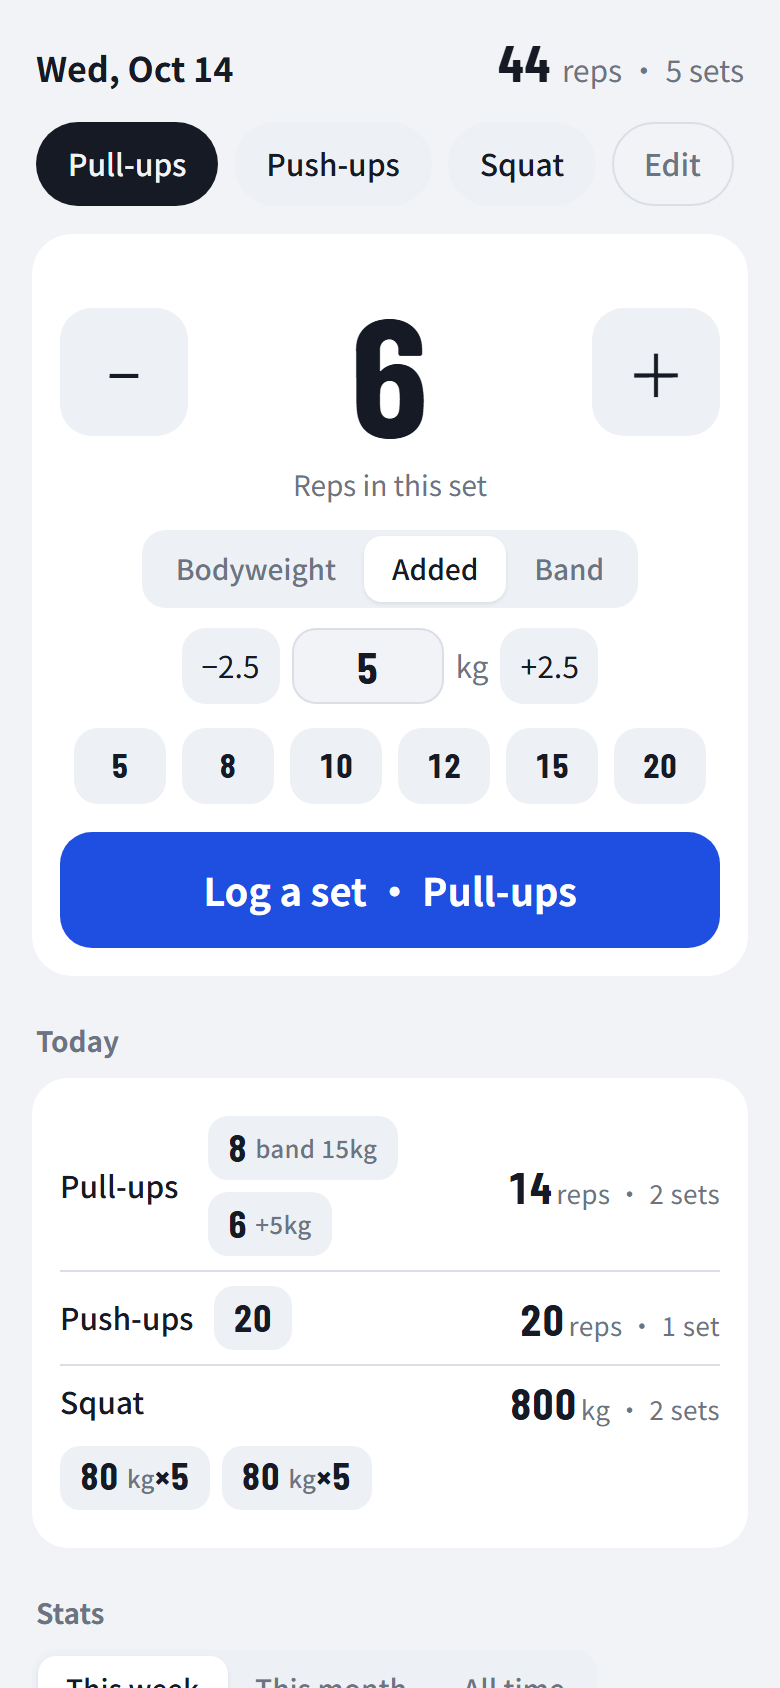
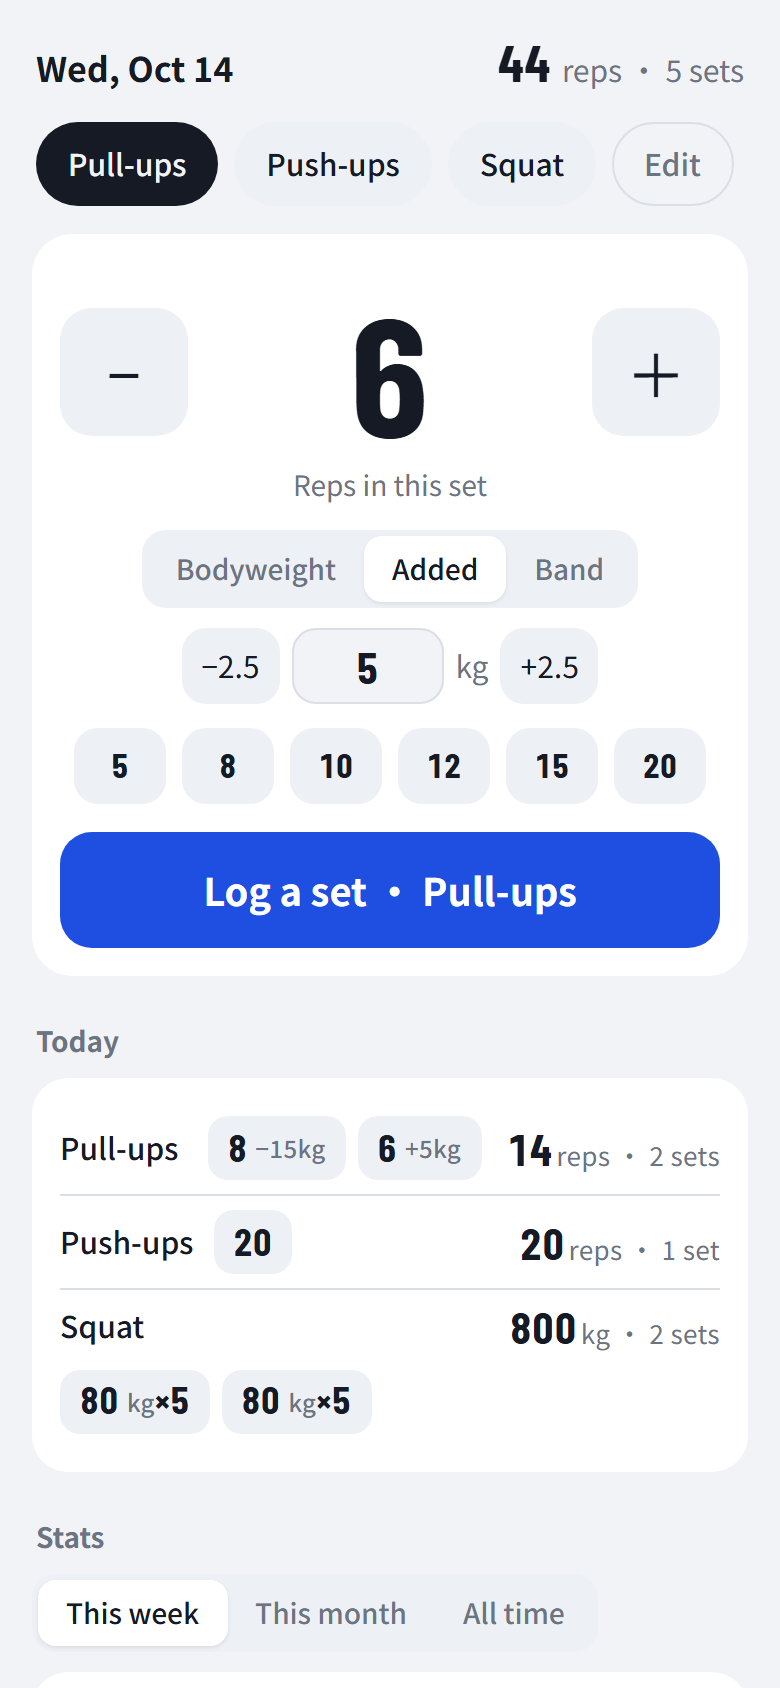
Show band assistance as -15kg on English set chips
The longer "band 15kg" squeezed the set chips onto two lines. Toasts and
screen-reader labels keep the full wording; Chinese is unchanged. The README
screenshots are now made by tools/make-screenshots.js.

diff --git a/tools/make-screenshots.js b/tools/make-screenshots.js
@@ -1,0 +1,47 @@
+// Takes the README screenshots with made-up data, in Chinese and English:
+//   node tools/make-screenshots.js   -> docs/screenshot.png, docs/screenshot-en.png
+const { chromium } = require('@playwright/test');
+const path = require('path');
+const { pathToFileURL } = require('url');
+
+const URL = pathToFileURL(path.join(__dirname, '..', 'index.html')).href;
+const SHOTS = [
+  // [file, locale, pull-ups, push-ups, a weight-type lift]
+  ['screenshot.png', 'zh-TW', '單槓', '伏地挺身', '深蹲'],
+  ['screenshot-en.png', 'en-US', 'Pull-ups', 'Push-ups', 'Squat'],
+];
+
+(async () => {
+  const browser = await chromium.launch();
+  for (const [file, locale, pull, push, lift] of SHOTS) {
+    const page = await browser.newPage({ viewport: { width: 390, height: 844 }, deviceScaleFactor: 2, colorScheme: 'light', locale });
+    await page.goto(URL);
+    await page.evaluate(([pull, push, lift]) => {
+      localStorage.clear();
+      localStorage.setItem('workoutlog.v1', JSON.stringify({ version: 3, exercises: [pull, push, lift], types: { [lift]: 'weight' }, days: {} }));
+    }, [pull, push, lift]);
+    await page.reload();
+    const log = async (ex, reps, mode, kg) => {
+      await page.click(`#chips .chip:has-text("${ex}")`);
+      if (mode) await page.click(`#load button[data-m="${mode}"]`);
+      if (kg !== undefined) await page.fill('#kg', String(kg));
+      await page.fill('#reps', String(reps));
+      await page.click('#log');
+    };
+    await log(pull, 8, 'band', 15);
+    await log(pull, 6, 'add', 5);
+    await log(push, 20, 'body');
+    await log(lift, 5, null, 80);
+    await log(lift, 5, null, 80);
+    await page.click(`#chips .chip:has-text("${pull}")`);
+    await page.click('#load button[data-m="add"]');
+    await page.fill('#kg', '5');
+    await page.fill('#reps', '6');
+    await page.evaluate(() => document.activeElement.blur());
+    await page.waitForTimeout(2000); // let the toast fade
+    await page.screenshot({ path: path.join(__dirname, '..', 'docs', file) });
+    await page.close();
+  }
+  await browser.close();
+  console.log('wrote docs/screenshot.png, docs/screenshot-en.png');
+})();

diff --git a/i18n.js b/i18n.js
@@ -32,7 +32,7 @@
       repsU: n => '下', setsU: n => ' 組',
       rowKg: n => 'kg · ' + n + ' 組', rowReps: n => '下 · ' + n + ' 組',
       dayHead: (r, s) => '<span class="num">' + r + '</span> 下 · ' + s + ' 組',
-      bandKg: kg => '帶' + kg + 'kg',
+      bandKg: kg => '帶' + kg + 'kg', bandShort: kg => '帶' + kg + 'kg',
       setAriaKg: (w, r) => w + ' 公斤 ' + r + ' 下，點一下可修改',
       setAria: (r, l) => r + ' 下' + (l ? ' ' + l : '') + '，點一下可修改',
       // stats
@@ -85,7 +85,8 @@
       repsU: n => plural(n, ' rep', ' reps'), setsU: n => plural(n, ' set', ' sets'),
       rowKg: n => 'kg · ' + n + plural(n, ' set', ' sets'), rowReps: n => 'reps · ' + n + plural(n, ' set', ' sets'),
       dayHead: (r, s) => '<span class="num">' + r + '</span>' + plural(r, ' rep', ' reps') + ' · ' + s + plural(s, ' set', ' sets'),
-      bandKg: kg => 'band ' + kg + 'kg',
+      // On the set chips space is tight: assistance shows as negative weight, the usual English convention.
+      bandKg: kg => 'band ' + kg + 'kg', bandShort: kg => '−' + kg + 'kg',
       setAriaKg: (w, r) => w + ' kg × ' + r + plural(r, ' rep', ' reps') + ', tap to edit',
       setAria: (r, l) => r + plural(r, ' rep', ' reps') + (l ? ' ' + l : '') + ', tap to edit',
       noStats: 'No sets in this period yet.', volKg: 'kg volume', totalReps: 'reps',

diff --git a/app.js b/app.js
@@ -34,7 +34,7 @@
   function currentReps(){ return clampReps($('reps').value); }
   // Load is signed kg on the set: w > 0 加重, w < 0 拉力帶, no w = 徒手.
   function cleanW(v){ const n = Math.round(Number(v) * 10) / 10; return Number.isFinite(n) ? Math.max(-999, Math.min(999, n)) : 0; }
-  function loadLabel(w){ return w > 0 ? '+' + w + 'kg' : w < 0 ? t('bandKg', -w) : ''; }
+  function loadLabel(w, short){ return w > 0 ? '+' + w + 'kg' : w < 0 ? t(short ? 'bandShort' : 'bandKg', -w) : ''; }
   function makeSet(id, ex, reps, w, t){ const s = { id, ex, reps, t }; if (w) s.w = w; return s; }
   function isWeight(ex){ return Object.prototype.hasOwnProperty.call(state.types, ex) && state.types[ex] === 'weight'; }
   // Training volume counts only weight-type lifts: kg × reps.
@@ -131,7 +131,7 @@
           el.setAttribute('aria-label', t('setAriaKg', s.w, s.reps));
         } else {
           el.textContent = s.reps;
-          if (s.w) { const sm = document.createElement('small'); sm.textContent = loadLabel(s.w); el.appendChild(sm); }
+          if (s.w) { const sm = document.createElement('small'); sm.textContent = loadLabel(s.w, true); el.appendChild(sm); }
           el.setAttribute('aria-label', t('setAria', s.reps, loadLabel(s.w)));
         }
         el.onclick = () => openEdit(key, s.id);

diff --git a/tests/i18n.spec.js b/tests/i18n.spec.js
@@ -52,6 +52,16 @@ test('記一組後，單位和提示是英文，單複數正確', async ({ page 
   await expect(page.locator('header .sum')).toHaveText('16 reps · 2 sets');
 });
 
+test('拉力帶在組數方塊上寫成短的 −15kg，提示裡寫完整的 band', async ({ page }) => {
+  await openApp(page);
+  await page.locator('#load button[data-m="band"]').click();
+  await page.locator('#kg').fill('15');
+  await page.locator('#log').click();
+  await expect(page.locator('#toast')).toHaveText('Pull-ups 8 reps (band 15kg) — logged');
+  await expect(page.locator('#todayDay .set')).toHaveText('8−15kg');
+  await expect(page.locator('#todayDay .set')).toHaveAttribute('aria-label', '8 reps band 15kg, tap to edit');
+});
+
 test('已經存在的動作名稱不會被翻譯', async ({ page }) => {
   await openApp(page, { version: 3, exercises: ['單槓'], days: {} });
   await expect(page.locator('#chips .chip').first()).toHaveText('單槓');

diff --git a/index.html b/index.html
@@ -15,7 +15,7 @@
 <meta name="apple-mobile-web-app-title" content="運動紀錄">
 <link rel="preconnect" href="https://fonts.googleapis.com">
 <link href="https://fonts.googleapis.com/css2?family=Barlow+Condensed:wght@600;700&family=Noto+Sans+TC:wght@400;500;700&display=swap" rel="stylesheet">
-<link rel="stylesheet" href="style.css?v=7">
+<link rel="stylesheet" href="style.css?v=8">
 </head>
 <body>
 <div class="wrap">
@@ -166,7 +166,7 @@
 
 <div class="toast" id="toast"></div>
 
-<script src="i18n.js?v=7"></script>
-<script src="app.js?v=7"></script>
+<script src="i18n.js?v=8"></script>
+<script src="app.js?v=8"></script>
 </body>
 </html>

diff --git a/README.md b/README.md
@@ -64,7 +64,7 @@ Before clearing browser data or switching phones, use "Export backup" at the bot
 | `tools/make-icons.js` | Builds the icon from the monkey face plus a bar, writes every PNG size: `node tools/make-icons.js` |
 | `tools/monkey-face.svg` | Monkey face used in the icon (Noto Emoji, license in `tools/NOTO-EMOJI-LICENSE.txt`) |
 | `tests/` | Playwright tests; `serve.js` is a local server for the tests |
-| `docs/screenshot-en.png`, `docs/screenshot.png` | Screenshots for the READMEs (made-up data) |
+| `docs/screenshot-en.png`, `docs/screenshot.png` | Screenshots for the READMEs (made-up data), taken by `node tools/make-screenshots.js` |
 | `LICENSE` | MIT license |
 
 No build step — these files run as-is on GitHub Pages.

diff --git a/README.zh-TW.md b/README.zh-TW.md
@@ -58,7 +58,7 @@ iPhone 特別建議這樣做，原因見下面的「已知限制」。
 | `tools/make-icons.js` | 把猴臉加上單槓組成圖示，輸出各尺寸 PNG：`node tools/make-icons.js` |
 | `tools/monkey-face.svg` | 圖示用的猴臉（Noto Emoji，授權見 `tools/NOTO-EMOJI-LICENSE.txt`） |
 | `tests/` | Playwright 測試，`serve.js` 是測試用的本機伺服器 |
-| `docs/screenshot.png`、`docs/screenshot-en.png` | README 用的截圖（假資料） |
+| `docs/screenshot.png`、`docs/screenshot-en.png` | README 用的截圖（假資料），用 `node tools/make-screenshots.js` 產生 |
 | `LICENSE` | MIT 授權 |
 
 不需要建置工具，以上檔案直接放上 GitHub Pages 就能跑。
